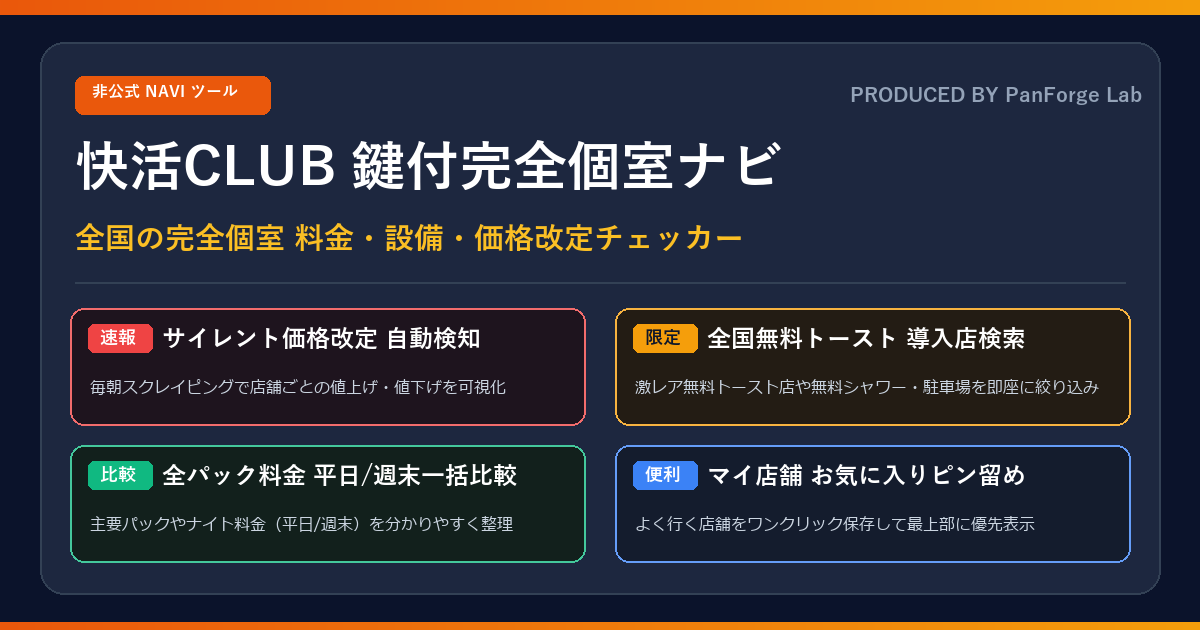
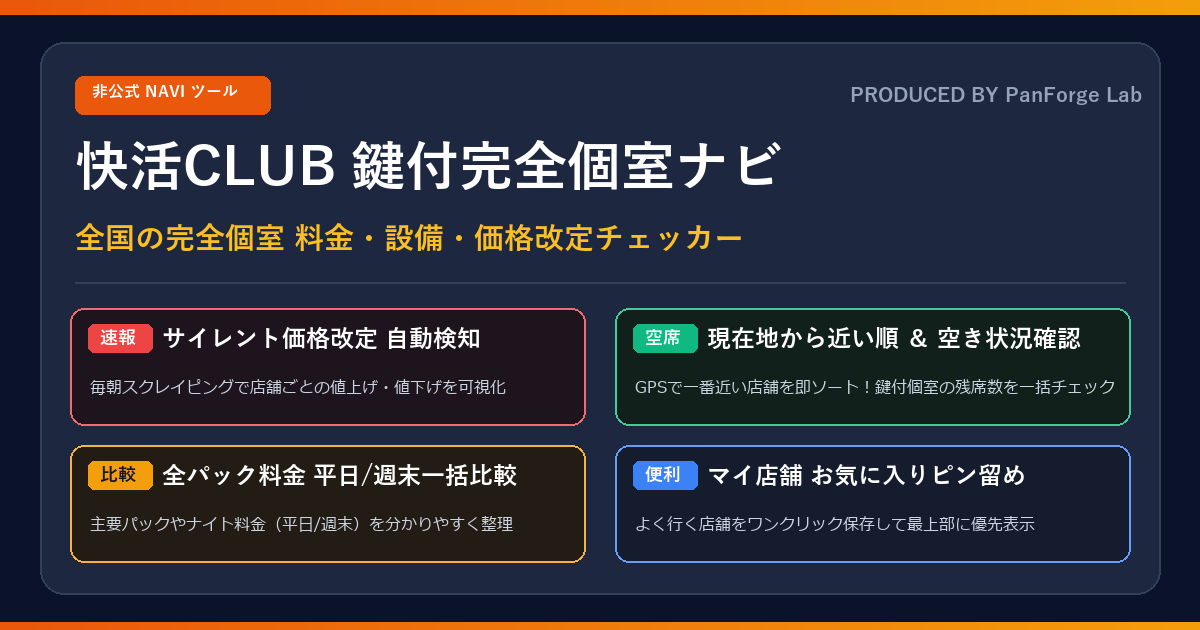
feat(ogp): update ogp-image to feature near-me vacancy search and update meta tags

diff --git a/index.html b/index.html
@@ -20,19 +20,19 @@
   <title>快活CLUB 鍵付完全個室ナビ (非公式)</title>
   
   <!-- OGP / Twitter Card -->
-  <meta name="description" content="全国の快活CLUB「鍵付完全個室」の料金・設備（無料シャワー・無料トースト・WEB予約等）を一括比較！毎朝の自動スクレイピングでサイレント価格改定も速報中。">
+  <meta name="description" content="全国415店舗の快活CLUB「鍵付完全個室」を一括比較！現在地から近い順ソート、リアルタイム空き状況確認、毎朝のサイレント価格改定速報、無料シャワー・駐車場絞り込みに対応。">
   <meta property="og:type" content="website">
   <meta property="og:site_name" content="快活CLUB 鍵付完全個室ナビ (非公式)">
   <meta property="og:title" content="快活CLUB 鍵付完全個室ナビ｜全国の完全個室料金・設備一括比較">
-  <meta property="og:description" content="全国の快活CLUB「鍵付完全個室」の料金・設備（無料シャワー・無料トースト・WEB予約等）を一括比較！毎朝の自動スクレイピングでサイレント価格改定も速報中。">
+  <meta property="og:description" content="全国415店舗の快活CLUB「鍵付完全個室」を一括比較！現在地から近い順ソート、リアルタイム空き状況確認、毎朝のサイレント価格改定速報、無料シャワー・駐車場絞り込みに対応。">
   <meta property="og:url" content="https://kaikatsu-navi.github.io/kaikatsu-room-navi/">
-  <meta property="og:image" content="https://kaikatsu-navi.github.io/kaikatsu-room-navi/assets/ogp-image.png">
+  <meta property="og:image" content="https://kaikatsu-navi.github.io/kaikatsu-room-navi/assets/ogp-image.png?v=20261005">
   <meta property="og:image:width" content="1200">
   <meta property="og:image:height" content="630">
   <meta name="twitter:card" content="summary_large_image">
   <meta name="twitter:title" content="快活CLUB 鍵付完全個室ナビ｜全国の完全個室料金・設備一括比較">
-  <meta name="twitter:description" content="全国の快活CLUB「鍵付完全個室」の料金・設備（無料シャワー・無料トースト等）を一括比較！サイレント価格改定も速報中。">
-  <meta name="twitter:image" content="https://kaikatsu-navi.github.io/kaikatsu-room-navi/assets/ogp-image.png">
+  <meta name="twitter:description" content="全国415店舗の快活CLUB「鍵付完全個室」を一括比較！現在地から近い順ソート、リアルタイム空き状況確認、毎朝のサイレント価格改定速報も。">
+  <meta name="twitter:image" content="https://kaikatsu-navi.github.io/kaikatsu-room-navi/assets/ogp-image.png?v=20261005">
 
   <!-- Favicon -->
   <link rel="icon" type="image/svg+xml" href="assets/favicon.svg">
